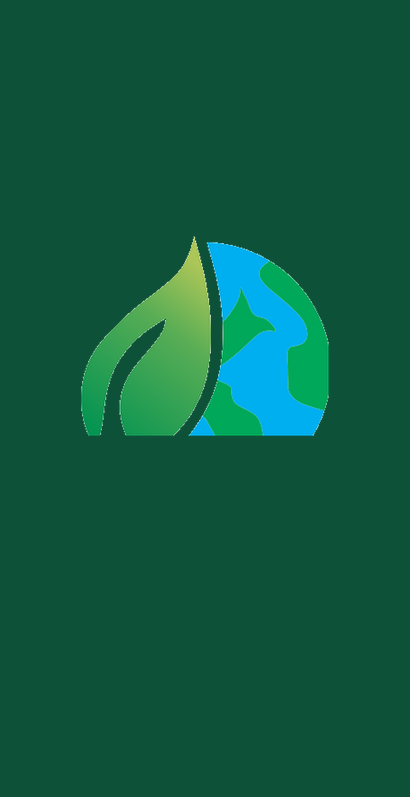
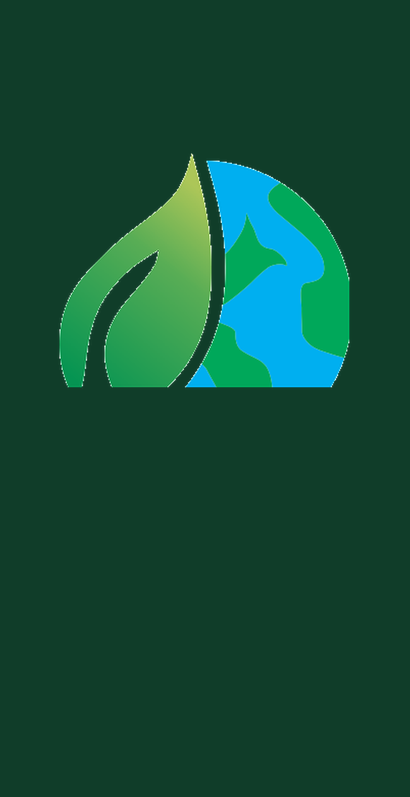
art(assets): re-derivacao INTERIM do splash - paleta D-IMAN-026 + copy REURB/Ceara
Master SVG-texto re-derivado por find-replace deterministico (mapa OLD->NEW por
papel, do arquiteto) + copy: tagline 'REGULARIZACAO FUNDIARIA . CADASTRO TERRITORIAL',
'CEARA . SIRGAS 2000 . UTM 24S' (remove a coord falsa de Pernambuco). PRESERVA
'BASEADA EM QGIS'/'POWERED BY QGIS' (BL-1/BL-2). Re-rasterizado via QtSvg (1000x480).
Wizard/banner na paleta nova. Simbolo NAO re-colorido (sem master vetorial -
STOP-AND-FLAG ate o IMAN.cdr). Reproduzivel: derive-interim-palette + rasterize-splash
+ regenerate-brand-derivatives.

Changed region(s): [[0.1463, 0.1807, 0.8488, 0.5721]]

diff --git a/app/assets/derive-interim-palette.py b/app/assets/derive-interim-palette.py
@@ -1,0 +1,79 @@
+# -*- coding: utf-8 -*-
+"""Re-derivação INTERIM da arte do splash — paleta D-IMAN-026 + copy REURB/Ceará.
+
+Determinístico (find-replace por PAPEL, mapa do arquiteto — INTERIM, sobreponível
+pelo `IMAN.cdr`). NÃO é trabalho de designer: transforma o master SVG-texto
+`splash-iman-terra.svg` (hexes editáveis + copy em <text>). Reproduzível: rode com
+o python do sistema; depois rasterize com QtSvg (ver app/assets/README.md).
+
+Fatia #005 (feat/003-identidade-nofork). PRESERVA os créditos do QGIS (BL-1/BL-2):
+"BASEADA EM QGIS", "POWERED BY QGIS" e o wordmark "QGIS" (cor de crédito mantida).
+O símbolo (iman-symbol.png) NÃO é re-colorido (raster sem master vetorial —
+STOP-AND-FLAG até o IMAN.cdr).
+"""
+import os
+import re
+
+SVG = os.path.join(os.path.dirname(os.path.abspath(__file__)), "splash-iman-terra.svg")
+
+# --- 1a) mapa de paleta OLD->NEW por PAPEL (hex, minúsculas como no SVG) --------
+HEX = {
+    "#0d5138": "#103d29",  # chrome / brand (topo do gradiente)
+    "#083629": "#0f3021",  # bg gradiente (mid) — interpolado
+    "#05241c": "#0e2219",  # bg gradiente (mid) — interpolado
+    "#041c16": "#0e1a14",  # fundo escuro (bg dark)
+    "#a8501f": "#6e5e3f",  # banda "versão institucional" (par escuro) -> earth escuro
+    "#c56a2f": "#8a7a55",  # warm REMOVIDO -> earth
+    "#00a85a": "#1e7a4d",  # verde-marca / destaque -> brand-2
+    "#2ca8e0": "#2b8fd6",  # azul -> accent
+    "#5fe0a0": "#82d3a6",  # mint REMOVIDO -> realce (dark active-fg)
+    "#7fe3ac": "#82d3a6",  # acento "Terra" (mint) -> realce
+    "#f2f8f3": "#ebeee8",  # surface -> neutro claro (wordmark IMAN)
+    "#cfe6d8": "#e4f0e8",  # tint -> active-bg (tagline)
+    "#fbeee4": "#f5f1e8",  # straggler texto da banda -> claro legível
+    # #5aa832 (wordmark "QGIS") = crédito -> MANTIDO (não recolorir; BL-1)
+}
+# rgba por PAPEL (mantêm alpha p/ legibilidade; nunca apagam crédito/texto)
+RGBA = {
+    "rgba(160,224,192,": "rgba(130,211,166,",  # anéis decorativos (mint) -> realce
+    "rgba(206,124,72,":  "rgba(138,122,85,",   # anéis (warm) -> earth
+    "rgba(44,168,224,":  "rgba(43,143,214,",   # hidrografia (accent)
+    "rgba(226,240,232,": "rgba(235,238,232,",  # grid/coord/crédito/status (neutro claro)
+    "rgba(3,20,15,":     "rgba(14,26,20,",     # fundo da status bar (dark)
+}
+
+# --- 1b) copy REURB/Ceará (fonte única de posicionamento: spike/003 dashboard) --
+COPY = {
+    # remove a coord FALSA de Pernambuco (não inventar precisão cadastral); Ceará + CRS
+    "24M   40°30&#39;W  |  8°10&#39;S  |  SIRGAS 2000":
+        "CEARÁ  ·  SIRGAS 2000  ·  UTM 24S",
+    # tagline: ambiental -> REURB/cadastral
+    "MONITORAMENTO AMBIENTAL E INTELIGÊNCIA TERRITORIAL":
+        "REGULARIZAÇÃO FUNDIÁRIA · CADASTRO TERRITORIAL",
+}
+
+
+def main():
+    with open(SVG, "r", encoding="utf-8") as f:
+        s = f.read()
+    counts = {}
+    for old, new in {**HEX, **RGBA}.items():
+        s, n = re.subn(re.escape(old), new, s)
+        counts[old] = n
+    for old, new in COPY.items():
+        if old not in s:
+            raise SystemExit("COPY não encontrada (já derivado?): %r" % old[:30])
+        s = s.replace(old, new)
+        counts[old[:24] + "…"] = 1
+    with open(SVG, "w", encoding="utf-8") as f:
+        f.write(s)
+    for k, v in counts.items():
+        print("%3d  %s" % (v, k))
+    # guarda BL-1: créditos preservados
+    for must in ("BASEADA EM QGIS", "POWERED BY", "QGIS", "#5aa832"):
+        assert must in s, "CRÉDITO REMOVIDO: %s" % must
+    print("OK — créditos do QGIS preservados (BL-1/BL-2).")
+
+
+if __name__ == "__main__":
+    main()

diff --git a/app/assets/regenerate-brand-derivatives.py b/app/assets/regenerate-brand-derivatives.py
@@ -1,0 +1,55 @@
+# -*- coding: utf-8 -*-
+"""Regenera os derivados DEPENDENTES DE PALETA após a re-derivação INTERIM (#005).
+
+Determinístico, PIL. NÃO re-colore o símbolo (`iman-symbol.png` = mark, sem master
+vetorial — STOP-AND-FLAG até o IMAN.cdr); só troca fundos/chrome p/ a paleta nova e
+re-deriva o banner do dock a partir do novo splash. O `.ico` e o `icon-iman-terra.png`
+(símbolo transparente) NÃO mudam.
+
+Rodar com o python do sistema:  python app/assets/regenerate-brand-derivatives.py
+"""
+import os
+from PIL import Image
+
+A = os.path.dirname(os.path.abspath(__file__))
+SYM = Image.open(os.path.join(A, "iman-symbol.png")).convert("RGBA")
+
+# Paleta nova (D-IMAN-026): brand=#103D29, neutro claro=#EBEEE8
+BRAND = (0x10, 0x3D, 0x29)
+LIGHT = (0xEB, 0xEE, 0xE8)
+
+
+def _fit(sym, box_w, box_h, frac):
+    w = int(box_w * frac)
+    h = int(w * sym.height / sym.width)
+    if h > box_h * frac:
+        h = int(box_h * frac)
+        w = int(h * sym.width / sym.height)
+    return sym.resize((w, h), Image.LANCZOS)
+
+
+def wizard(path, size, bg, frac, vpos):
+    canvas = Image.new("RGB", size, bg)
+    s = _fit(SYM, size[0], size[1], frac)
+    x = (size[0] - s.width) // 2
+    y = int(size[1] * vpos - s.height / 2)
+    canvas.paste(s, (x, y), s)
+    canvas.save(path)
+    print("wizard:", os.path.basename(path), size, "bg", bg)
+
+
+def plugin_banner():
+    # banner do dock = novo splash reduzido p/ 760x365
+    src = Image.open(os.path.join(A, "splash-iman-terra.png")).convert("RGBA")
+    dst = src.resize((760, 365), Image.LANCZOS)
+    out = os.path.join(A, "..", "profile-template", "iman-distro", "python",
+                       "plugins", "iman_brand", "resources", "splash.png")
+    dst.save(out)
+    print("plugin banner:", os.path.relpath(out, A), dst.size)
+
+
+if __name__ == "__main__":
+    wizard(os.path.join(A, "wizard-large.png"), (410, 797), BRAND, 0.72, 0.34)
+    wizard(os.path.join(A, "wizard-small.png"), (138, 140), LIGHT, 0.74, 0.5)
+    plugin_banner()
+    print("OK — mark preservado; fundos/banner na paleta nova (INTERIM).")

diff --git a/app/assets/rasterize-splash.py b/app/assets/rasterize-splash.py
@@ -1,0 +1,38 @@
+# -*- coding: utf-8 -*-
+"""Rasteriza o master splash-iman-terra.svg -> splash-iman-terra.png (1000x480).
+
+Rasterizador determinístico disponível no ambiente: **QtSvg** (`QSvgRenderer`), via
+o Python do QGIS. NÃO usar a plataforma 'offscreen' (dá tofu nas fontes) — usar a
+'windows' (base de fontes real). Rodar:
+
+    C:\\OSGeo4W\\bin\\python-qgis-ltr.bat app\\assets\\rasterize-splash.py
+
+Resolve o href relativo `iman-symbol.png` fazendo chdir p/ app/assets/.
+"""
+import os
+import sys
+
+from qgis.PyQt.QtWidgets import QApplication
+from qgis.PyQt.QtSvg import QSvgRenderer
+from qgis.PyQt.QtGui import QImage, QPainter, QColor
+from qgis.PyQt.QtCore import QRectF
+
+ASSETS = os.path.dirname(os.path.abspath(__file__))
+SVG = os.path.join(ASSETS, "splash-iman-terra.svg")
+PNG = os.path.join(ASSETS, "splash-iman-terra.png")
+W, H = 1000, 480
+
+app = QApplication(sys.argv)
+os.chdir(ASSETS)  # href relativo do símbolo
+r = QSvgRenderer(SVG)
+assert r.isValid(), "SVG inválido"
+img = QImage(W, H, QImage.Format_ARGB32)
+img.fill(QColor("#0e1a14"))  # bg opaco (o SVG cobre tudo; segurança contra máscara)
+p = QPainter(img)
+p.setRenderHint(QPainter.Antialiasing, True)
+p.setRenderHint(QPainter.TextAntialiasing, True)
+p.setRenderHint(QPainter.SmoothPixmapTransform, True)
+r.render(p, QRectF(0, 0, W, H))
+p.end()
+img.save(PNG)
+print("splash rasterizado:", PNG, os.path.getsize(PNG), "bytes")

diff --git a/app/assets/README.md b/app/assets/README.md
@@ -7,12 +7,18 @@ em `docs/`; aqui viram a fonte única de asset da distro. Nada de raster de trab
 > A paleta de marca é derivada **destes** assets (o `splash-iman-terra.svg` é a fonte legível por
 > máquina). Os valores travados vivem em `docs/design-system.md` **e** em `brand.py` (BL-4).
 
-## Masters (arte-fonte — não editar sem novo drop oficial)
+> **Re-derivação INTERIM (fatia #005, D-IMAN-026):** o master SVG foi re-derivado para a
+> paleta nova + copy REURB/Ceará de forma **determinística** (mapa OLD→NEW por papel, do
+> arquiteto), via `derive-interim-palette.py`. **INTERIM** — o `IMAN.cdr`/manual, chegando,
+> prevalece. O **símbolo** (`iman-symbol.png`) NÃO foi re-colorido (raster sem master
+> vetorial — STOP-AND-FLAG). Créditos do QGIS preservados no splash (BL-1/BL-2).
+
+## Masters (arte-fonte)
 
 | Arquivo | O que é |
 |---|---|
-| `splash-iman-terra.svg` | **Master vetorial** do splash oficial (1000×480). Fonte da paleta. |
-| `iman-symbol.png` | **Símbolo** oficial (folha + globo), fundo transparente. Master dos ícones. |
+| `splash-iman-terra.svg` | **Master vetorial** do splash (1000×480), SVG-texto. Fonte da paleta. Re-derivável INTERIM por script (acima); sobreponível pelo `IMAN.cdr`. |
+| `iman-symbol.png` | **Símbolo** oficial (folha + globo), transparente. Master dos ícones. **Não re-colorido** (sem master vetorial). |
 | `logo-iman.png` | Logo institucional (arte própria IMAN). |
 | `backgrounds/bg-iman-branco.jpeg` | Fundo institucional claro. |
 | `backgrounds/bg-iman-verde.jpeg` | Fundo institucional verde. |
@@ -21,11 +27,11 @@ em `docs/`; aqui viram a fonte única de asset da distro. Nada de raster de trab
 
 | Arquivo | Como é gerado | Uso |
 |---|---|---|
-| `splash-iman-terra.png` | raster oficial → 1000×480 (LANCZOS) | banner do dock + wizard do instalador |
+| `splash-iman-terra.png` | **rasterizado do master SVG via QtSvg** (`rasterize-splash.py`, plataforma 'windows' p/ fontes), 1000×480 | **splash NATIVO de boot** (customização, no-fork) + banner do dock |
 | `icon-iman-terra.ico` | símbolo → quadrado + respiro 10% → ICO 16/24/32/48/64/128/256, **transparente** | atalho / `SetupIconFile` / `UninstallDisplayIcon` |
 | `icon-iman-terra.png` | símbolo → 512×512, transparente | ícone da janela (startup) |
-| `wizard-large.png` | símbolo sobre `brand.primary-deep` (#0D5138), 410×797 | `WizardImageFile` (Inno) |
-| `wizard-small.png` | símbolo sobre fundo claro, 138×140 | `WizardSmallImageFile` (Inno) |
+| `wizard-large.png` | símbolo sobre `brand` (#103D29, paleta nova), 410×797 (`regenerate-brand-derivatives.py`) | `WizardImageFile` (Inno) |
+| `wizard-small.png` | símbolo sobre neutro claro (#EBEEE8), 138×140 (`regenerate-brand-derivatives.py`) | `WizardSmallImageFile` (Inno) |
 | `../profile-template/iman-distro/python/plugins/iman_brand/resources/icon.png` | símbolo → 256×256 | ícone do plugin/toolbar/Sobre |
 | `../profile-template/iman-distro/python/plugins/iman_brand/resources/splash.png` | splash → 760×365 | banner do dock de boas-vindas |
 
@@ -36,8 +42,11 @@ regenerar os derivados a partir dele — não editar os derivados à mão.
 
 ## Limite honesto (BL-5)
 
-O `splash-iman-terra.svg` é o asset que a **Opção 2 (fork)** fiará como **splash nativo de boot** do
-QGIS (DA-2). No no-fork (Opção 1), a arte oficial entra **só** onde é honesto — banner do dock do
-plugin e imagens do wizard do instalador. **Nenhum** splash nativo é forjado, nem há 2º-splash
-pós-load (removido na fatia 1). Ícone do executável `qgis-bin.exe`, About nativo e nome interno
-seguem como limites da Opção 2.
+**Atualização (spikes #004/#005):** o **splash nativo de boot É no-fork** — o QGIS renderiza
+`QgsCustomization::splashPath()+"splash.png"`, apontado pela customização do perfil
+(`QGISCUSTOMIZATION3.ini`, escrito pelo launcher) para o `splash.png` do perfil. Não é hack/
+2º-splash: é o próprio `QSplashScreen` nativo com o asset IMAN. Assim `splash-iman-terra.png`
+entra como **splash nativo de boot** (fatia #005), banner do dock e wizard do instalador.
+Limites que sobram para a Opção 2 (fork), de baixo valor (spike #004): **ícone do arquivo
+`qgis-bin.exe`** (só num QGIS bundlado) e **nome interno** — o About tem substituto próprio
+no-fork (mantendo o About nativo).
